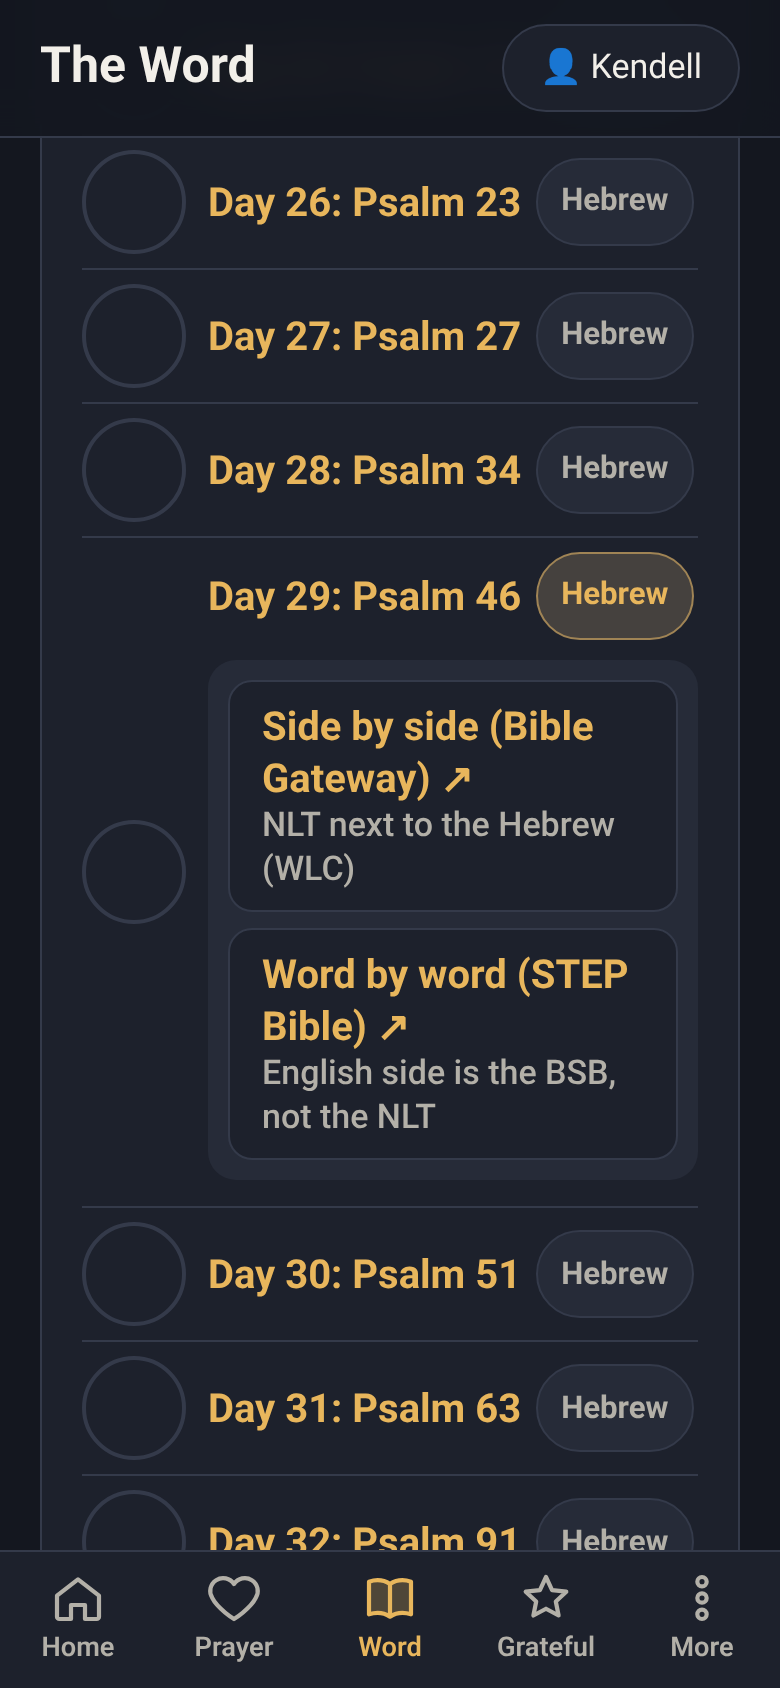
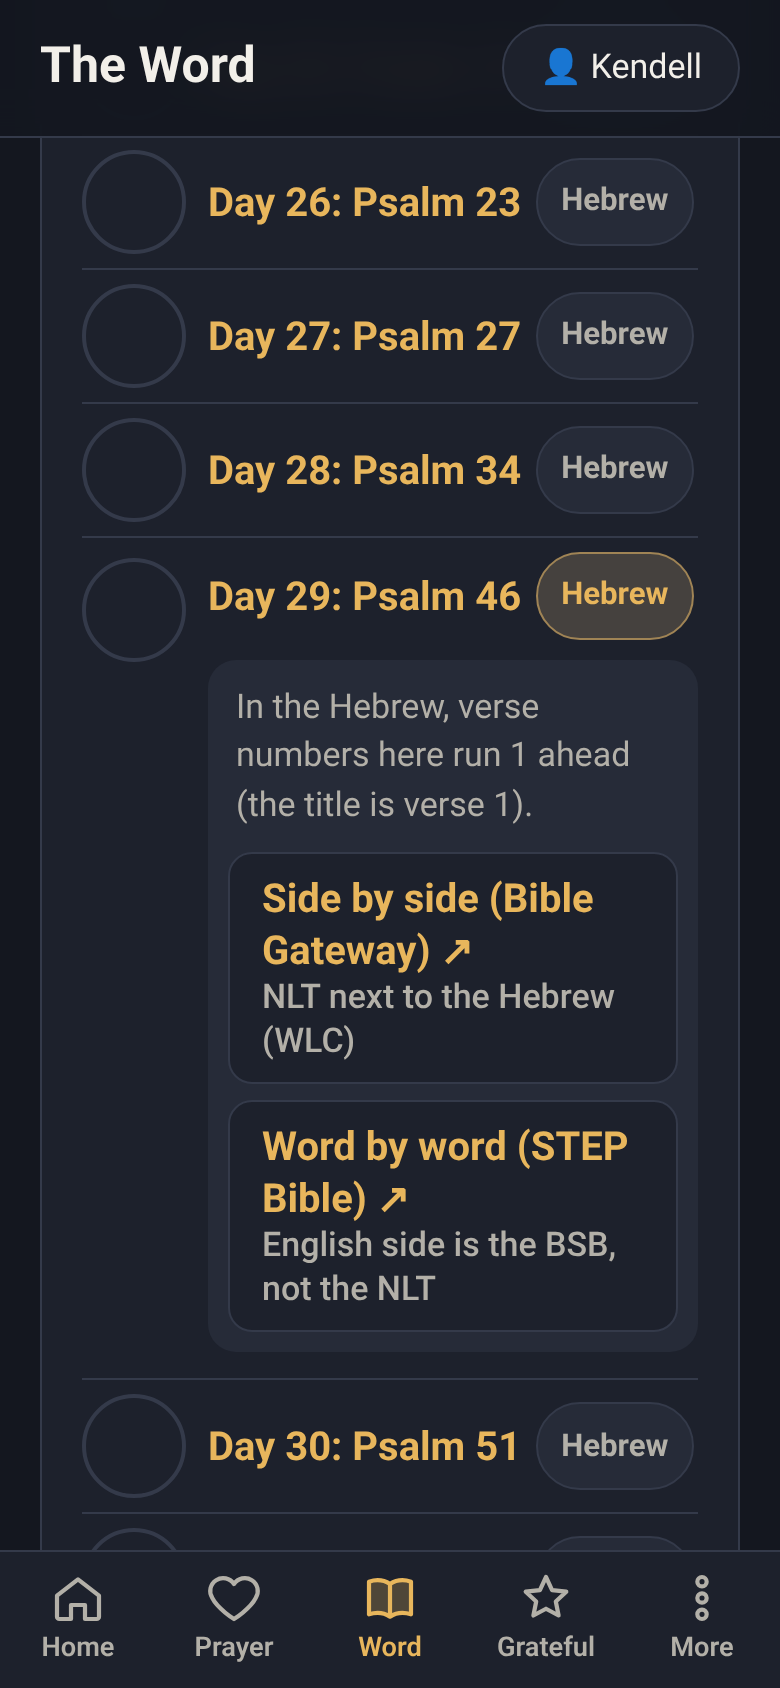
Compare panel review fixes: psalm verse-shift note, sr-only new-tab text, aria-controls only when open, remember open panels, top-aligned check; sw v8

diff --git a/js/app.js b/js/app.js
@@ -24,33 +24,54 @@
   }
   // One small chip per scripture ref ("Hebrew" for OT, "Greek" for NT). Tapping it expands a panel (built on demand)
   // with links to compare the NLT with the original language. Links only: no scripture text is stored or shown.
+  // aria-controls/id are only set while the panel exists. Open panels are remembered (per tab + ref) across re-renders.
   let compareSeq = 0;
+  const openCompare = new Set();
   function compareChip(ref) {
     const lang = C.originalLanguage(ref);
     if (!lang) return '';
-    const id = 'cmp-' + (++compareSeq);
-    return '<button type="button" class="chip-lang" data-action="compare" data-ref="' + esc(ref) + '" aria-expanded="false" aria-controls="' + id + '"' +
+    return '<button type="button" class="chip-lang" data-action="compare" data-ref="' + esc(ref) + '" aria-expanded="false"' +
       ' aria-label="Compare ' + esc(ref) + ' with the original ' + lang + '">' + lang + '</button>';
   }
   function comparePanel(ref, id) {
     const L = C.compareLinks(ref);
     const ext = (url, label, note) => '<a class="cmp-link" href="' + esc(url) + '" target="_blank" rel="noopener noreferrer">' +
-      '<span>' + esc(label) + '\u00a0↗</span>' + (note ? '<span class="small muted">' + esc(note) + '</span>' : '') + '</a>';
-    const side = L.side
+      '<span>' + esc(label) + '\u00a0↗</span>' + (note ? '<span class="small muted">' + esc(note) + '</span>' : '') +
+      '<span class="sr-only"> (opens in a new tab)</span></a>';
+    const shift = L.verseShift
+      ? '<p class="small muted cmp-note">In the Hebrew, verse numbers here run ' + L.verseShift + ' ahead (the title is ' +
+        (L.verseShift === 1 ? 'verse 1' : 'verses 1-' + L.verseShift) + ').</p>' : '';
+    const side = shift + (L.side
       ? ext(L.side, 'Side by side (Bible Gateway)', 'NLT next to the ' + (L.testament === 'OT' ? 'Hebrew (WLC)' : 'Greek (SBLGNT)'))
       : '<p class="small muted cmp-note">The Hebrew numbers this as ' + esc(L.hebrewRef) + ', so open the two separately:</p>' +
-        ext(L.split.nlt, 'English (NLT): ' + ref, 'Bible Gateway') + ext(L.split.wlc, 'Hebrew (WLC): ' + L.hebrewRef, 'Bible Gateway');
+        ext(L.split.nlt, 'English (NLT): ' + ref, 'Bible Gateway') + ext(L.split.wlc, 'Hebrew (WLC): ' + L.hebrewRef, 'Bible Gateway'));
     return '<div class="cmp-panel" id="' + id + '" role="group" aria-label="Compare ' + esc(ref) + ' with the original ' + L.language + '">' +
       side + ext(L.step, 'Word by word (STEP Bible)', 'English side is the BSB, not the NLT') + '</div>';
   }
-  function toggleCompare(btn) {
-    const id = btn.getAttribute('aria-controls');
-    const open = btn.getAttribute('aria-expanded') === 'true';
-    const existing = document.getElementById(id);
-    if (open) { if (existing) existing.remove(); btn.setAttribute('aria-expanded', 'false'); return; }
-    const host = btn.closest('.cmp-host') || btn.parentNode;
-    host.insertAdjacentHTML('beforeend', comparePanel(btn.dataset.ref, id));
+  function compareKey(btn) { return currentTab() + '|' + btn.dataset.ref; }
+  function openComparePanel(btn) {
+    const id = 'cmp-' + (++compareSeq);
+    (btn.closest('.cmp-host') || btn.parentNode).insertAdjacentHTML('beforeend', comparePanel(btn.dataset.ref, id));
+    btn.setAttribute('aria-controls', id);
     btn.setAttribute('aria-expanded', 'true');
+    btn.closest('.plan-day') && btn.closest('.plan-day').classList.add('open');
+  }
+  function toggleCompare(btn) {
+    if (btn.getAttribute('aria-expanded') === 'true') {
+      const panel = document.getElementById(btn.getAttribute('aria-controls'));
+      if (panel) panel.remove();
+      btn.removeAttribute('aria-controls');
+      btn.setAttribute('aria-expanded', 'false');
+      btn.closest('.plan-day') && btn.closest('.plan-day').classList.remove('open');
+      openCompare.delete(compareKey(btn));
+    } else {
+      openComparePanel(btn);
+      openCompare.add(compareKey(btn));
+    }
+  }
+  function restoreCompare() {
+    if (!openCompare.size) return;
+    main.querySelectorAll('.chip-lang').forEach((btn) => { if (openCompare.has(compareKey(btn))) openComparePanel(btn); });
   }
   const ORIGINAL_NOTE = 'The NLT is a meaning-based (thought-for-thought) translation: it translates literally where that\'s clear and ' +
     'gives the sense of a phrase where a literal rendering would confuse. The Hebrew and Greek are the texts translators work from. ' +
@@ -393,6 +414,7 @@
     const draft = $('#g-text') ? $('#g-text').value : '';
     main.innerHTML = setup ? viewSetup() : VIEWS[tab]();
     if (draft && $('#g-text')) $('#g-text').value = draft;
+    if (!setup) restoreCompare();
     if (opts && opts.scroll) window.scrollTo(0, 0);
   }
   window.addEventListener('hashchange', () => { stopMic(); render({ scroll: true }); main.focus({ preventScroll: true }); });

diff --git a/tests/smoke.test.js b/tests/smoke.test.js
@@ -109,14 +109,33 @@ const { chromium, devices } = require('playwright-core');
   ok((await page.locator('.card.accent .chip-lang').innerText()).startsWith(vodLang), 'verse-of-the-day chip: ' + vodLang);
   ok(await page.locator('.plan-day .chip-lang').count() === 37 && await page.locator('.plan-day').first().locator('.chip-lang').count() === 1, 'one chip per plan reference');
   ok(await page.$$eval('.cmp-panel', (n) => n.length) === 0 && !(await page.getAttribute('details.about-orig', 'open')), 'compare panels and the about note start collapsed');
+  ok(await chipP46.getAttribute('aria-controls') === null, 'no aria-controls before the panel exists');
+  const shifts = await page.evaluate(() => ['Psalm 46', 'Psalm 13', 'Psalm 51', 'Psalm 1', 'Psalm 23', 'John 3', 'Psalm 46:10'].map((r) => Content.compareLinks(r).verseShift));
+  ok(shifts.join(',') === '1,1,2,0,0,0,0', 'whole-chapter psalm verse shifts: ' + shifts.join(','));
   await chipP46.click();
   ok(await chipP46.getAttribute('aria-expanded') === 'true', 'chip expands');
+  const ctl = await chipP46.getAttribute('aria-controls');
+  ok(!!ctl && !!(await page.$('#' + ctl + '.cmp-panel')), 'aria-controls points at the open panel');
+  ok((await page.textContent('#' + ctl)).includes('In the Hebrew, verse numbers here run 1 ahead (the title is verse 1).'), 'Psalm 46 shift note');
+  ok(await page.$$eval('#' + ctl + ' a', (as) => as.every((a) => a.querySelector('.sr-only') && a.querySelector('.sr-only').textContent === ' (opens in a new tab)')), 'compare links announce new tab');
+  ok(await page.$eval('.plan-day:has(#' + ctl + ')', (el) => getComputedStyle(el).alignItems) === 'flex-start', 'open plan day aligns check to the top');
   const p46Links = await page.$$eval('.plan-day .cmp-panel a', (as) => as.map((a) => a.href + ' ' + a.target));
   ok(p46Links.length === 2 && p46Links[0] === BG + 'Psalm%2046&version=NLT;WLC _blank' && p46Links[1].startsWith(STEP + 'OSHB|reference=Psa.46&'), 'Psalm 46 panel links: ' + p46Links.join(' , '));
   await chipP46.scrollIntoViewIfNeeded(); await page.evaluate(() => window.scrollBy(0, 120)); await page.waitForTimeout(200);
   await page.screenshot({ path: 'screenshots/06-compare-plan.png' });
+  await page.click('.plan-day:has(a:text-is("Day 29: Psalm 46")) [data-action=toggle-reading]'); // re-render
+  ok(await chipP46.getAttribute('aria-expanded') === 'true' && await page.$$eval('.plan-day .cmp-panel', (n) => n.length) === 1, 'open panel survives a re-render');
+  await page.click('.plan-day:has(a:text-is("Day 29: Psalm 46")) [data-action=toggle-reading]');
+  const chipP51 = page.locator('.plan-day:has(a:text-is("Day 30: Psalm 51")) .chip-lang');
+  await chipP51.click();
+  ok((await page.textContent('#' + (await chipP51.getAttribute('aria-controls')))).includes('run 2 ahead'), 'Psalm 51 shift note (2 ahead)');
+  await chipP51.click();
+  const chipJ3b = page.locator('.plan-day:has(a:text-is("Day 3: John 3")) .chip-lang');
+  await chipJ3b.click();
+  ok(!(await page.textContent('#' + (await chipJ3b.getAttribute('aria-controls')))).includes('ahead'), 'no shift note for John 3');
+  await chipJ3b.click();
   await chipP46.click();
-  ok(await page.$$eval('.cmp-panel', (n) => n.length) === 0, 'chip collapses again');
+  ok(await page.$$eval('.cmp-panel', (n) => n.length) === 0 && await chipP46.getAttribute('aria-controls') === null, 'chip collapses again');
   // split links for a verse whose Hebrew numbering differs: a phone whose date makes Psalm 46:1-3 the verse of the day
   const ctx4 = await browser.newContext({ viewport: { width: 390, height: 844 }, deviceScaleFactor: 2, isMobile: true, hasTouch: true,
     userAgent: devices['iPhone 13'].userAgent, colorScheme: 'dark' });

diff --git a/js/content.js b/js/content.js
@@ -89,7 +89,8 @@
   // English (NLT) ref -> Hebrew (WLC) ref, where the Hebrew numbers verses differently
   // (psalm titles counted as verse 1; different chapter breaks in Joel and Malachi). Verified by the Fact-Checker.
   // General rule for anything not listed: same numbering. Whole psalm chapters always match (only the verse numbers
-  // inside shift), so the reading-plan psalms (8, 19, 34, 46, 51, 63 have separate title verses) need no entry.
+  // inside shift), so the reading-plan psalms (8, 13, 19, 34, 46, 51, 63 have separate title verses) need no entry;
+  // PSALM_VERSE_SHIFT below only drives a note in the compare panel.
   // Audit of every OT ref in VERSES: only Psalm 34:8, 46:1-3 and 46:10 differ. Psalms 23, 37, 121, 133, 139 and 143
   // also have titles, but in Hebrew those short titles sit inside verse 1, so numbering matches (Fact-Checker: "every
   // other OT ref lines up"). TODO: if you add a new psalm verse, check its Hebrew numbering before relying on the rule.
@@ -103,6 +104,10 @@
     'Malachi 4:2': 'Malachi 3:20',
     'Malachi 4:1-6': 'Malachi 3:19-24'
   };
+
+  // Whole psalm chapters (in the reading plan) where the Hebrew verse numbers run ahead of the English, because the
+  // Hebrew counts the title as verse 1 (Psalm 51: title + setting = verses 1-2). Verified by the Fact-Checker.
+  const PSALM_VERSE_SHIFT = { 8: 1, 13: 1, 19: 1, 34: 1, 46: 1, 51: 2, 63: 1 };
 
   // "Song of Songs 8:6-7" -> { book, osis, testament, ch, v1, v2 }; null if it can't be parsed.
   function parseRef(ref) {
@@ -137,6 +142,8 @@
       testament: p.testament,
       language: ot ? 'Hebrew' : 'Greek',
       hebrewRef: ot ? heb : null,
+      // Whole-chapter psalms only: how many verses ahead the Hebrew numbering runs (0 = same).
+      verseShift: (p.osis === 'Psa' && !p.v1 && PSALM_VERSE_SHIFT[p.ch]) || 0,
       side: differs ? null : bgParallelUrl(ref, ot ? 'NLT;WLC' : 'NLT;SBLGNT'),
       split: differs ? { nlt: bgParallelUrl(ref, 'NLT'), wlc: bgParallelUrl(heb, 'WLC') } : null,
       step: 'https://www.stepbible.org/?q=version=BSB|version=' + (ot ? 'OSHB' : 'SBLG') + '|reference=' + osisRef(ref) +
@@ -146,7 +153,7 @@
 
   window.Content = {
     VERSES: VERSES, GRATITUDE_PROMPTS: GRATITUDE_PROMPTS, PLAN: PLAN, bibleGatewayUrl: bibleGatewayUrl,
-    BOOKS: BOOKS, WLC_OVERRIDES: WLC_OVERRIDES, parseRef: parseRef, testament: testament, originalLanguage: originalLanguage,
+    BOOKS: BOOKS, WLC_OVERRIDES: WLC_OVERRIDES, PSALM_VERSE_SHIFT: PSALM_VERSE_SHIFT, parseRef: parseRef, testament: testament, originalLanguage: originalLanguage,
     wlcRef: wlcRef, osisRef: osisRef, compareLinks: compareLinks
   };
 })();

diff --git a/styles.css b/styles.css
@@ -211,3 +211,5 @@ dialog h2 { margin-top: 0; }
 .about-orig summary { min-height: 44px; display: flex; align-items: center; gap: .4rem; cursor: pointer; color: var(--muted); font-weight: 600; font-size: .9rem; }
 .about-orig[open] { background: var(--surface); border: 1px solid var(--border); border-radius: var(--radius); padding: 0 1rem .6rem; }
 .plan-day:has(.chip-lang) { gap: .55rem; }
+.plan-day.open { align-items: flex-start; }
+.plan-day.open .check { margin-top: .15rem; }

diff --git a/sw.js b/sw.js
@@ -1,5 +1,5 @@
 /* Service worker: caches the app shell so it opens offline. Bump VERSION after editing any file. */
-const VERSION = 'faith-app-v7';
+const VERSION = 'faith-app-v8';
 const SHELL = [
   './', './index.html', './styles.css', './manifest.webmanifest',
   './js/config.js', './js/content.js', './js/store.js', './js/app.js',

diff --git a/README.md b/README.md
@@ -31,7 +31,7 @@ The Word tab has a collapsed **ⓘ About the original languages** note explainin
 On a phone, Bible Gateway's side-by-side page can show narrow columns, and STEP shows a tour pop-up on the first visit.
 
 **Licensing:** this feature is links only. The app stores and shows no Hebrew, Greek, NLT or BSB text, so no license
-or credit line is needed. Bible Gateway's terms allow deep links but forbid copying or caching their pages, so the app
+or credit line is needed. Bible Gateway's terms don't prohibit deep links but forbid copying or caching their pages, so the app
 uses plain-text labels (no logos) and never fetches their content. If original-language text is ever embedded
 (a possible "Phase 2"), use SBLGNT (CC BY 4.0) and the WLC (public domain, via the Open Scriptures Hebrew Bible)
 with their credit lines; don't embed THGNT (all rights reserved).
